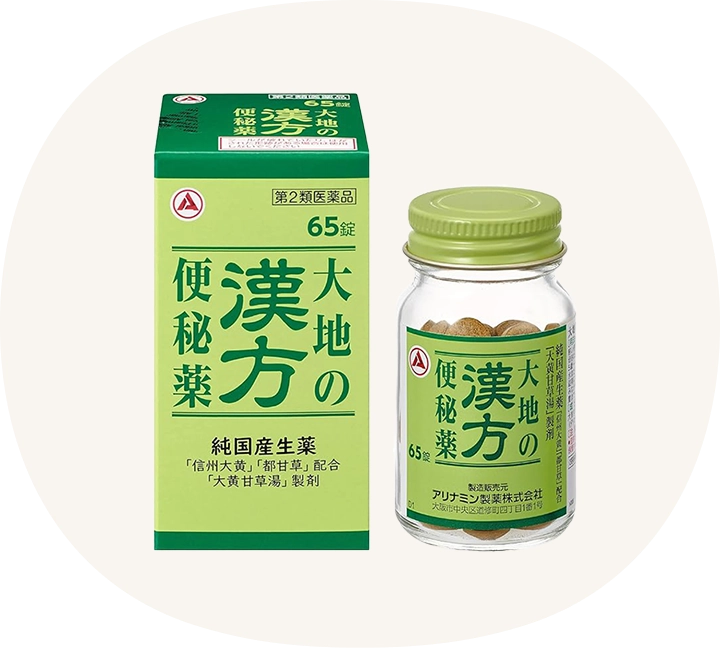
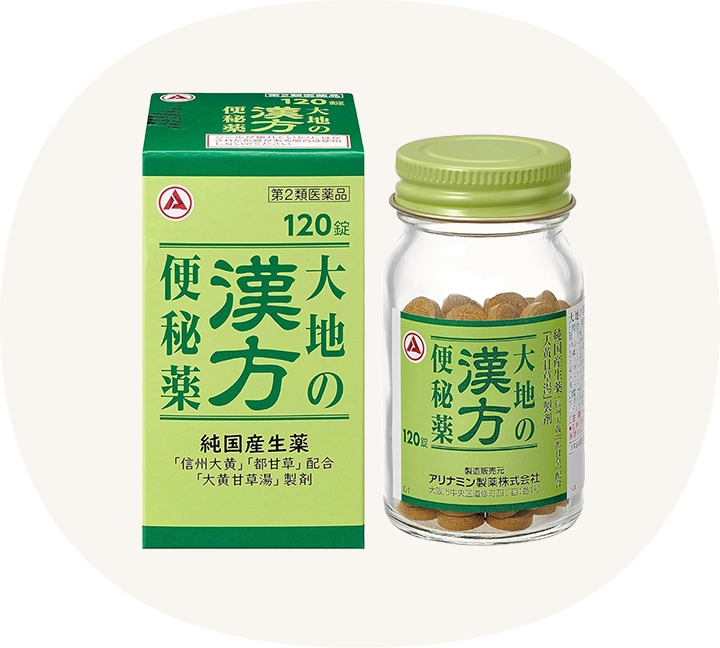
fix(daichi-no-kampo): 大地の漢方便秘薬の内容量・価格表記を修正
内容量を65錠から120錠、価格を¥1,613から¥2,617に修正し、関連する商品画像・CSSビルド成果物を更新。

Changed region(s): [[0.1833, 0.1235, 0.825, 0.8642]]

diff --git a/type-check/result/atonic-constipation_kampo/index.html b/type-check/result/atonic-constipation_kampo/index.html
@@ -298,8 +298,8 @@
                           <div class="company" data-astro-cid-nwhxhul2>（アリナミン製薬）</div>
                         </div>
                         <div class="capacityAndPrice" data-astro-cid-nwhxhul2>
-                          <div class="capacity" data-astro-cid-nwhxhul2>(65錠)</div>
-                          <div class="price" data-astro-cid-nwhxhul2>¥1,613</div>
+                          <div class="capacity" data-astro-cid-nwhxhul2>(120錠)</div>
+                          <div class="price" data-astro-cid-nwhxhul2>¥2,617</div>
                         </div>
                       </div>
                     </div>
@@ -643,7 +643,7 @@
                         <span data-astro-cid-edntlcwp>スペシャルな日の<br class="sp" />ケア専用！</span>
                       </div>
                       <h3 class="name" data-astro-cid-edntlcwp>大地の漢方便秘薬</h3>
-                      <span class="price" data-astro-cid-edntlcwp>(65錠)¥1,613</span>
+                      <span class="price" data-astro-cid-edntlcwp>(120錠)¥2,617</span>
                     </div>
                   </div>
                   <div class="btn" data-astro-cid-edntlcwp>

diff --git a/type-check/result/rectal-constipation_kampo/index.html b/type-check/result/rectal-constipation_kampo/index.html
@@ -298,8 +298,8 @@
                           <div class="company" data-astro-cid-nwhxhul2>（アリナミン製薬）</div>
                         </div>
                         <div class="capacityAndPrice" data-astro-cid-nwhxhul2>
-                          <div class="capacity" data-astro-cid-nwhxhul2>(65錠)</div>
-                          <div class="price" data-astro-cid-nwhxhul2>¥1,613</div>
+                          <div class="capacity" data-astro-cid-nwhxhul2>(120錠)</div>
+                          <div class="price" data-astro-cid-nwhxhul2>¥2,617</div>
                         </div>
                       </div>
                     </div>
@@ -641,7 +641,7 @@
                         <span data-astro-cid-edntlcwp>スペシャルな日の<br class="sp" />ケア専用！</span>
                       </div>
                       <h3 class="name" data-astro-cid-edntlcwp>大地の漢方便秘薬</h3>
-                      <span class="price" data-astro-cid-edntlcwp>(65錠)¥1,613</span>
+                      <span class="price" data-astro-cid-edntlcwp>(120錠)¥2,617</span>
                     </div>
                   </div>
                   <div class="btn" data-astro-cid-edntlcwp>

diff --git a/assets/js/ProductItem.js b/assets/js/ProductItem.js
@@ -89,8 +89,8 @@ const productsData = [
     title: "大地の漢方便秘薬",
     type: "第2類医薬品",
     company: "アリナミン製薬",
-    capacity: "65錠",
-    price: "¥1,613",
+    capacity: "120錠",
+    price: "¥2,617",
     description: "生薬の「大黄」と「甘草」を配合した「大黄甘草湯」が大腸をしっかり動かし、便をスムーズに運び出します。",
     badgeText: 'スペシャルな日の<br class="sp" />ケア専用！',
     btnColor: "#54B37B",

diff --git a/index.html b/index.html
@@ -850,8 +850,8 @@
                               <div class="company" data-astro-cid-nwhxhul2>（アリナミン製薬）</div>
                             </div>
                             <div class="capacityAndPrice" data-astro-cid-nwhxhul2>
-                              <div class="capacity" data-astro-cid-nwhxhul2>(65錠)</div>
-                              <div class="price" data-astro-cid-nwhxhul2>¥1,613</div>
+                              <div class="capacity" data-astro-cid-nwhxhul2>(120錠)</div>
+                              <div class="price" data-astro-cid-nwhxhul2>¥2,617</div>
                             </div>
                           </div>
                         </div>

diff --git a/product/bio-three-hi/index.html b/product/bio-three-hi/index.html
@@ -755,8 +755,8 @@
                               <div class="company" data-astro-cid-nwhxhul2>（アリナミン製薬）</div>
                             </div>
                             <div class="capacityAndPrice" data-astro-cid-nwhxhul2>
-                              <div class="capacity" data-astro-cid-nwhxhul2>(65錠)</div>
-                              <div class="price" data-astro-cid-nwhxhul2>¥1,613</div>
+                              <div class="capacity" data-astro-cid-nwhxhul2>(120錠)</div>
+                              <div class="price" data-astro-cid-nwhxhul2>¥2,617</div>
                             </div>
                           </div>
                         </div>

diff --git a/product/borraginol-a/index.html b/product/borraginol-a/index.html
@@ -786,8 +786,8 @@
                               <div class="company" data-astro-cid-nwhxhul2>（アリナミン製薬）</div>
                             </div>
                             <div class="capacityAndPrice" data-astro-cid-nwhxhul2>
-                              <div class="capacity" data-astro-cid-nwhxhul2>(65錠)</div>
-                              <div class="price" data-astro-cid-nwhxhul2>¥1,613</div>
+                              <div class="capacity" data-astro-cid-nwhxhul2>(120錠)</div>
+                              <div class="price" data-astro-cid-nwhxhul2>¥2,617</div>
                             </div>
                           </div>
                         </div>

diff --git a/product/colac-ii/index.html b/product/colac-ii/index.html
@@ -764,8 +764,8 @@
                               <div class="company" data-astro-cid-nwhxhul2>（アリナミン製薬）</div>
                             </div>
                             <div class="capacityAndPrice" data-astro-cid-nwhxhul2>
-                              <div class="capacity" data-astro-cid-nwhxhul2>(65錠)</div>
-                              <div class="price" data-astro-cid-nwhxhul2>¥1,613</div>
+                              <div class="capacity" data-astro-cid-nwhxhul2>(120錠)</div>
+                              <div class="price" data-astro-cid-nwhxhul2>¥2,617</div>
                             </div>
                           </div>
                         </div>

diff --git a/product/daichi-no-kampo/index.html b/product/daichi-no-kampo/index.html
@@ -186,8 +186,8 @@
                       <div class="company" data-astro-cid-nwhxhul2>（アリナミン製薬）</div>
                     </div>
                     <div class="capacityAndPrice" data-astro-cid-nwhxhul2>
-                      <div class="capacity" data-astro-cid-nwhxhul2>(65錠)</div>
-                      <div class="price" data-astro-cid-nwhxhul2>¥1,613</div>
+                      <div class="capacity" data-astro-cid-nwhxhul2>(120錠)</div>
+                      <div class="price" data-astro-cid-nwhxhul2>¥2,617</div>
                     </div>
                   </div>
                 </div>

diff --git a/product/mgo/index.html b/product/mgo/index.html
@@ -1258,8 +1258,8 @@
                               <div class="company" data-astro-cid-nwhxhul2>（アリナミン製薬）</div>
                             </div>
                             <div class="capacityAndPrice" data-astro-cid-nwhxhul2>
-                              <div class="capacity" data-astro-cid-nwhxhul2>(65錠)</div>
-                              <div class="price" data-astro-cid-nwhxhul2>¥1,613</div>
+                              <div class="capacity" data-astro-cid-nwhxhul2>(120錠)</div>
+                              <div class="price" data-astro-cid-nwhxhul2>¥2,617</div>
                             </div>
                           </div>
                         </div>

diff --git a/product/new-withone/index.html b/product/new-withone/index.html
@@ -767,8 +767,8 @@
                               <div class="company" data-astro-cid-nwhxhul2>（アリナミン製薬）</div>
                             </div>
                             <div class="capacityAndPrice" data-astro-cid-nwhxhul2>
-                              <div class="capacity" data-astro-cid-nwhxhul2>(65錠)</div>
-                              <div class="price" data-astro-cid-nwhxhul2>¥1,613</div>
+                              <div class="capacity" data-astro-cid-nwhxhul2>(120錠)</div>
+                              <div class="price" data-astro-cid-nwhxhul2>¥2,617</div>
                             </div>
                           </div>
                         </div>

diff --git a/sign-out/index.html b/sign-out/index.html
@@ -833,8 +833,8 @@
                               <div class="company" data-astro-cid-nwhxhul2>（アリナミン製薬）</div>
                             </div>
                             <div class="capacityAndPrice" data-astro-cid-nwhxhul2>
-                              <div class="capacity" data-astro-cid-nwhxhul2>(65錠)</div>
-                              <div class="price" data-astro-cid-nwhxhul2>¥1,613</div>
+                              <div class="capacity" data-astro-cid-nwhxhul2>(120錠)</div>
+                              <div class="price" data-astro-cid-nwhxhul2>¥2,617</div>
                             </div>
                           </div>
                         </div>

diff --git a/type-check/result/atonic-constipation_mg_kampo/index.html b/type-check/result/atonic-constipation_mg_kampo/index.html
@@ -543,7 +543,7 @@
                       <span data-astro-cid-77tibwep>スペシャルな日の<br class="sp" />ケア専用！</span>
                     </div>
                     <h3 class="name" data-astro-cid-77tibwep>大地の漢方便秘薬</h3>
-                    <span class="price" data-astro-cid-77tibwep>(65錠)¥1,613</span>
+                    <span class="price" data-astro-cid-77tibwep>(120錠)¥2,617</span>
                   </div>
                 </div>
                 <div class="btn" data-astro-cid-77tibwep>